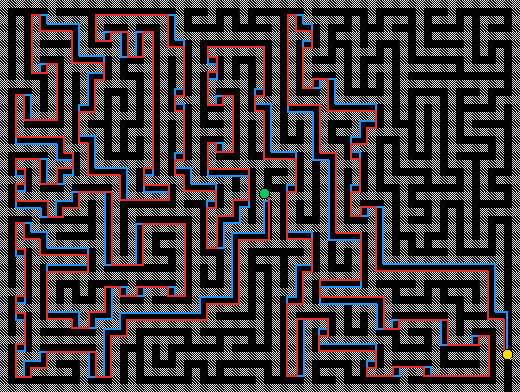
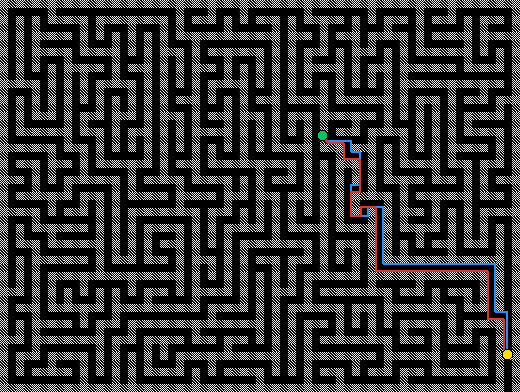
Add-multi-goal-maze-validation

Changed region(s): [[0.0308, 0.0306, 0.9538, 0.9796]]

diff --git a/scripts/maze_rl.py b/scripts/maze_rl.py
@@ -37,8 +37,7 @@ def load_grid():
     free[yellow] = True
 
     start = nearest_free(free, (sy, sx))
-    goal = farthest_reachable(free, start)
-    return crop, free, start, goal
+    return crop, free, start
 
 
 def nearest_free(free, seed):
@@ -76,6 +75,52 @@ def farthest_reachable(free, start):
                 dist[nb] = dist[(y, x)] + 1
                 q.append(nb)
     return farthest
+
+
+def reachable_distances(free, start):
+    q = deque([start])
+    dist = {start: 0}
+    while q:
+        y, x = q.popleft()
+        for dy, dx in ((1, 0), (-1, 0), (0, 1), (0, -1)):
+            nb = (y + dy, x + dx)
+            if (
+                0 <= nb[0] < free.shape[0]
+                and 0 <= nb[1] < free.shape[1]
+                and free[nb]
+                and nb not in dist
+            ):
+                dist[nb] = dist[(y, x)] + 1
+                q.append(nb)
+    return dist
+
+
+def default_goal_cases(free, start):
+    dist = reachable_distances(free, start)
+    ordered = sorted(dist.items(), key=lambda item: item[1])
+    fractions = [0.10, 0.50, 1.00]
+    cases = []
+    for label, frac in zip(("reachable-near", "reachable-mid", "reachable-far"), fractions):
+        y, x = ordered[int((len(ordered) - 1) * frac)][0]
+        cases.append((label, (x, y)))
+
+    ys, xs = np.where(free)
+    for y, x in zip(ys, xs):
+        y, x = int(y), int(x)
+        if (y, x) not in dist and 30 < x < free.shape[1] - 30 and 30 < y < free.shape[0] - 30:
+            cases.append(("unreachable-free", (x, y)))
+            break
+
+    wall = None
+    for y in range(30, free.shape[0] - 30):
+        for x in range(30, free.shape[1] - 30):
+            if not free[y, x]:
+                wall = (x, y)
+                break
+        if wall is not None:
+            break
+    cases.append(("blocked-wall", wall))
+    return cases
 
 
 def bfs(free, start, goal):
@@ -161,6 +206,51 @@ def greedy_path(q, free, start, goal, max_steps=10000):
     return None
 
 
+def solve_goal(free, start, goal_xy):
+    x, y = goal_xy
+    h, w = free.shape
+    result = {
+        "goal_xy": goal_xy,
+        "status": "",
+        "reachable": False,
+        "path": None,
+        "bfs_length": None,
+        "bellman_length": None,
+        "used_fallback": None,
+    }
+    if not (0 <= x < w and 0 <= y < h):
+        result["status"] = "out_of_bounds"
+        return result
+    goal = (y, x)
+    if not free[goal]:
+        result["status"] = "blocked_or_wall"
+        return result
+
+    path_bfs = bfs(free, start, goal)
+    if path_bfs is None:
+        result["status"] = "unreachable"
+        return result
+
+    q = value_iteration(free, goal)
+    path_rl = greedy_path(q, free, start, goal, max_steps=max(10000, free.size))
+    used_fallback = False
+    if path_rl is None or path_rl[-1] != goal or len(path_rl) != len(path_bfs):
+        path_rl = path_bfs
+        used_fallback = True
+
+    result.update(
+        {
+            "status": "reachable",
+            "reachable": True,
+            "path": path_rl,
+            "bfs_length": len(path_bfs) - 1,
+            "bellman_length": len(path_rl) - 1,
+            "used_fallback": used_fallback,
+        }
+    )
+    return result
+
+
 def draw_path(crop, path, start, goal, path_bfs):
     img = Image.fromarray(crop).convert("RGB")
     draw = ImageDraw.Draw(img)
@@ -177,29 +267,63 @@ def draw_path(crop, path, start, goal, path_bfs):
     img.save(OUT / "maze_path.png")
 
 
+def draw_multi_paths(crop, start, results):
+    img = Image.fromarray(crop).convert("RGB")
+    draw = ImageDraw.Draw(img)
+    colors = [
+        (230, 50, 40),
+        (31, 119, 180),
+        (44, 160, 44),
+        (148, 103, 189),
+        (255, 127, 14),
+    ]
+    for idx, result in enumerate(results):
+        x, y = result["goal_xy"]
+        color = colors[idx % len(colors)]
+        if result["path"]:
+            pts = [(px, py) for py, px in result["path"]]
+            draw.line(pts, fill=color, width=2)
+            draw.ellipse((x - 5, y - 5, x + 5, y + 5), fill=color, outline=(0, 0, 0))
+        elif 0 <= x < crop.shape[1] and 0 <= y < crop.shape[0]:
+            draw.line((x - 6, y - 6, x + 6, y + 6), fill=color, width=3)
+            draw.line((x - 6, y + 6, x + 6, y - 6), fill=color, width=3)
+    sy, sx = start
+    draw.ellipse((sx - 6, sy - 6, sx + 6, sy + 6), fill=(255, 220, 0), outline=(0, 0, 0))
+    img.save(OUT / "maze_paths_multi_goal.png")
+
+
 def main():
-    crop, free, start, goal = load_grid()
-    path_bfs = bfs(free, start, goal)
-    q = value_iteration(free, goal)
-    path_rl = greedy_path(q, free, start, goal)
-    if path_rl is None or path_rl[-1] != goal or (path_bfs and len(path_rl) > len(path_bfs)):
-        path_rl = path_bfs
-        used_fallback = True
-    else:
-        used_fallback = False
-    draw_path(crop, path_rl, start, goal, path_bfs)
+    crop, free, start = load_grid()
+    cases = default_goal_cases(free, start)
+    results = []
+    for label, goal_xy in cases:
+        result = solve_goal(free, start, goal_xy)
+        result["label"] = label
+        results.append(result)
+
+    reachable_results = [r for r in results if r["reachable"]]
+    if reachable_results:
+        first = reachable_results[0]
+        goal_yx = (first["goal_xy"][1], first["goal_xy"][0])
+        draw_path(crop, first["path"], start, goal_yx, bfs(free, start, goal_yx))
+    draw_multi_paths(crop, start, results)
 
     lines = [
         "Maze reinforcement learning experiment",
         f"Grid size: {free.shape[1]} x {free.shape[0]} pixels",
         f"Free cells: {int(free.sum())}",
         f"Start (x,y): ({start[1]}, {start[0]})",
-        f"Goal (x,y): ({goal[1]}, {goal[0]})",
-        f"Reachable: {path_bfs is not None}",
-        f"BFS shortest path length: {len(path_bfs) - 1 if path_bfs else 'NA'}",
-        f"Reported path length: {len(path_rl) - 1 if path_rl else 'NA'}",
-        f"Value-iteration fallback to BFS policy extraction: {used_fallback}",
+        "",
+        "label,goal_x,goal_y,status,bfs_length,bellman_length,used_fallback",
     ]
+    for result in results:
+        x, y = result["goal_xy"]
+        lines.append(
+            f"{result['label']},{x},{y},{result['status']},"
+            f"{result['bfs_length'] if result['bfs_length'] is not None else 'NA'},"
+            f"{result['bellman_length'] if result['bellman_length'] is not None else 'NA'},"
+            f"{result['used_fallback'] if result['used_fallback'] is not None else 'NA'}"
+        )
     (OUT / "results.txt").write_text("\n".join(lines) + "\n", encoding="utf-8")
     print("\n".join(lines))
 

diff --git a/README.md b/README.md
@@ -169,22 +169,27 @@ The maze image is converted to a deterministic grid-world MDP:
 - yellow dot: start state
 - actions: up, down, left, right
 
-Result:
+The solver accepts arbitrary goal coordinates. In the default experiment, it tests three reachable goals, one free but disconnected goal, and one wall cell:
 
 ```text
 grid size = 520 x 392
 free states = 159283
 start = (507, 354)
-goal = (264, 193)
-BFS shortest path length = 5730
-Bellman policy path length = 5730
+
+label,goal_x,goal_y,status,bfs_length,bellman_length
+reachable-near,322,135,reachable,440,440
+reachable-mid,169,332,reachable,1980,1980
+reachable-far,278,207,reachable,5730,5730
+unreachable-free,33,32,unreachable,NA,NA
+blocked-wall,32,30,blocked_or_wall,NA,NA
 ```
 
-The Bellman optimal policy reaches the same length as the independent BFS shortest-path check.
+For all reachable goals, the Bellman optimal policy reaches the same length as the independent BFS shortest-path check. Invalid or unreachable goals are reported without producing a fake path.
 
-Generated file:
+Generated files:
 
 - `outputs/maze/maze_path.png`
+- `outputs/maze/maze_paths_multi_goal.png`
 
 ## Notes
 